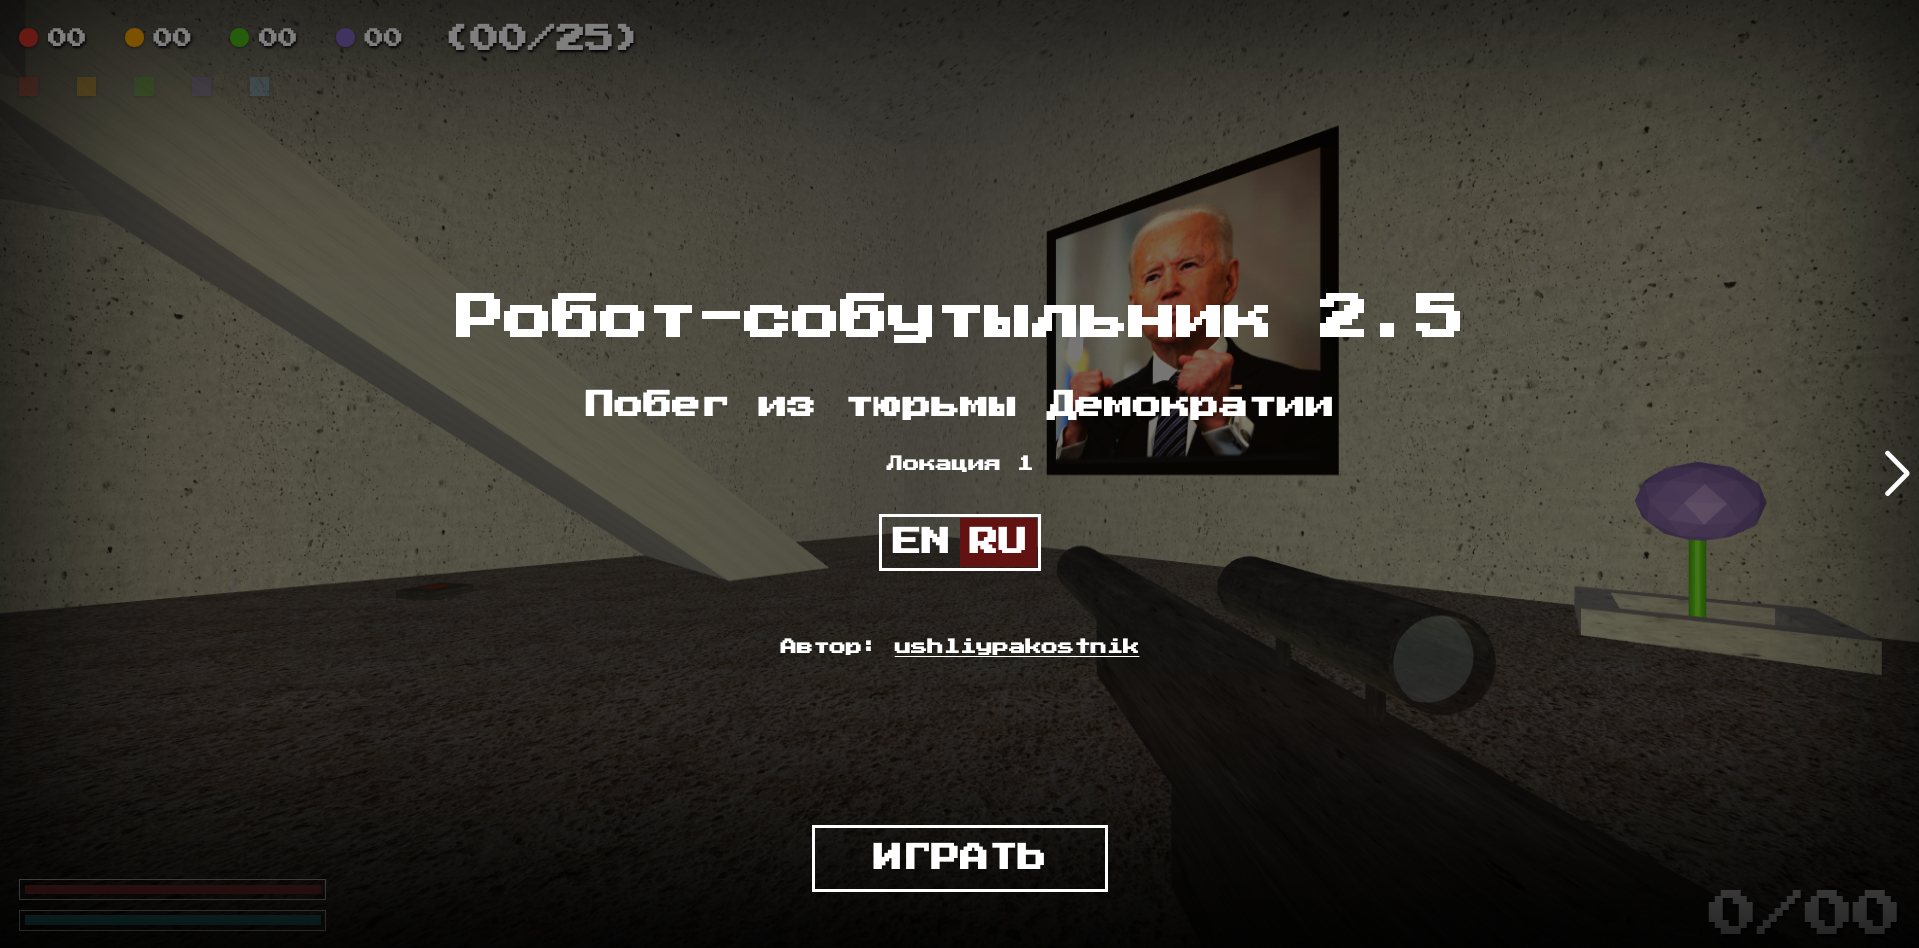
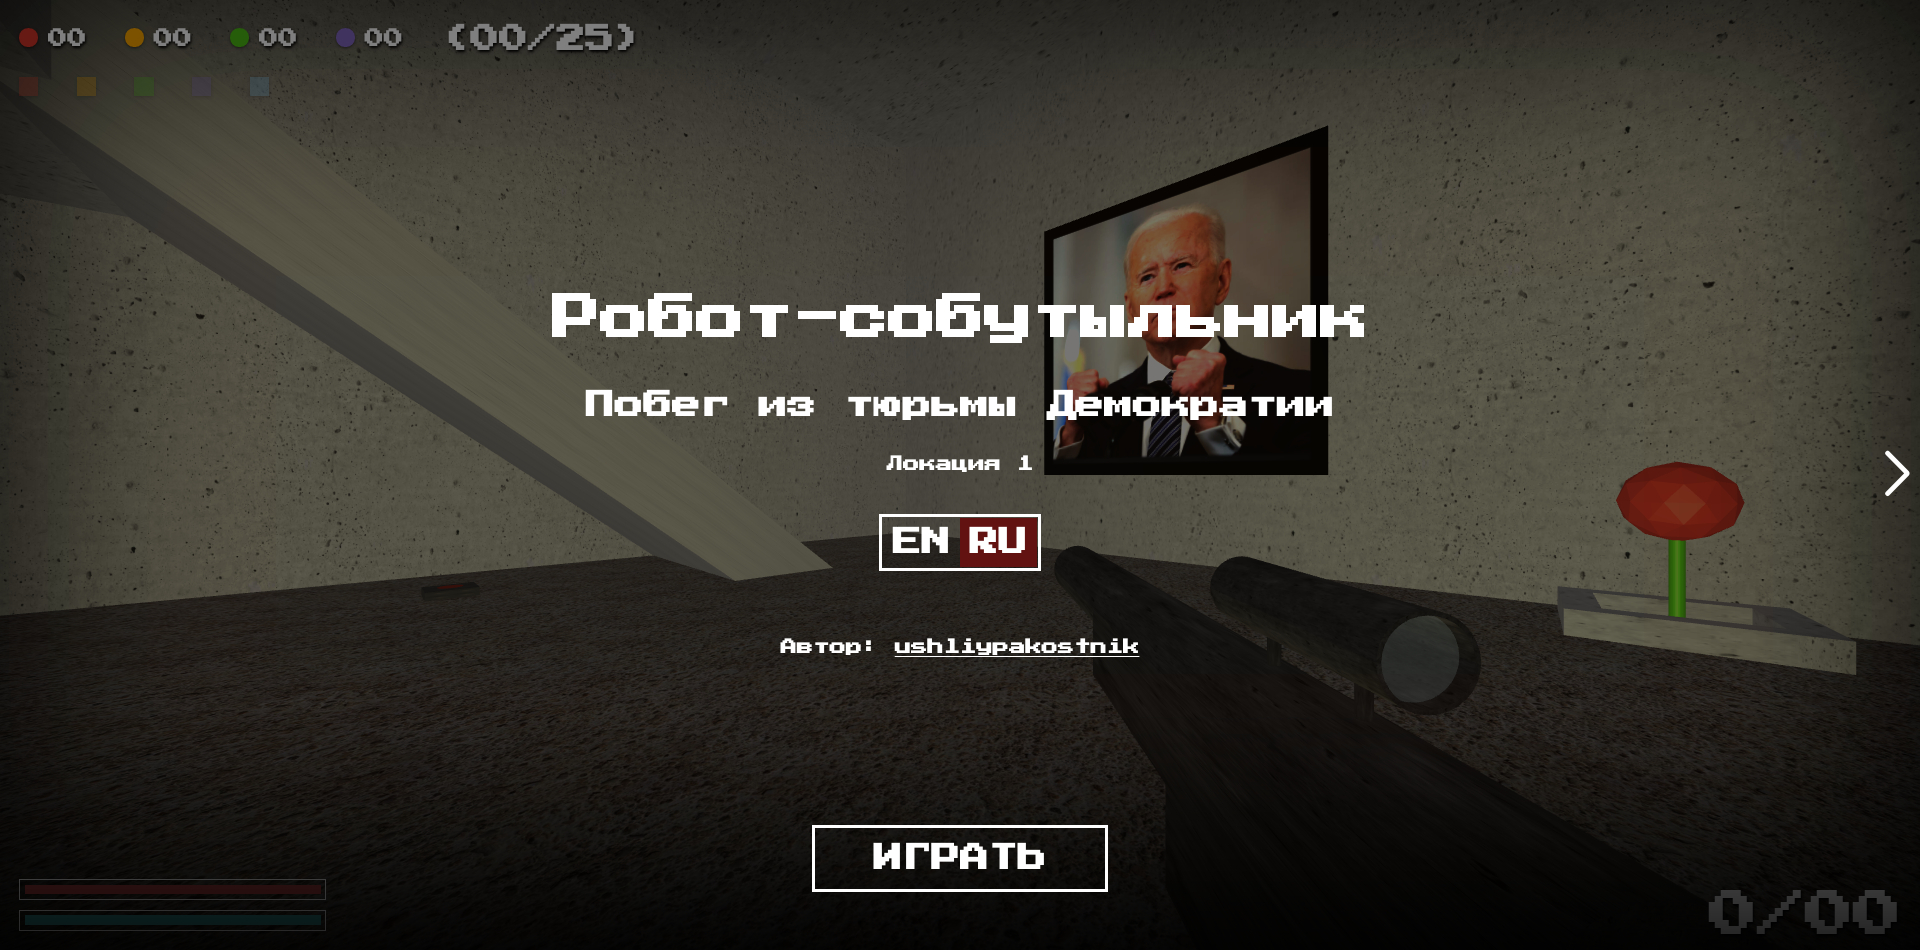
add v

diff --git a/src/utils/constants.js b/src/utils/constants.js
@@ -43,7 +43,7 @@ export const LANGUAGES = [
 const ammo = 25;
 
 export const DESIGN = {
-  V: '2.582',
+  V: '2.583',
   BREAKPOINTS: {
     desktop: 1025,
   },
@@ -438,7 +438,7 @@ export const OBJECTS = {
 export const LOCALES = {
   [LANGUAGES[0].name]: {
     layout: {
-      title: 'Drinkin Robot',
+      title: 'Drinking Robot',
       level: 'Level',
       startbutton: 'Play',
       attention: 'Attention!!! It is recommended to play on computers with a powerful video card.',

diff --git a/README.md b/README.md
@@ -1,4 +1,4 @@
-Driinking Robot: Browser classic custom FPS Game on Three, Vue and Blender.
+Drinking Robot: Browser classic custom FPS Game on Three, Vue and Blender.
 ===========================================================================
 
 ![First screen](https://github.com/ushliypakostnik/robot-game/raw/master/public/start.jpg)
